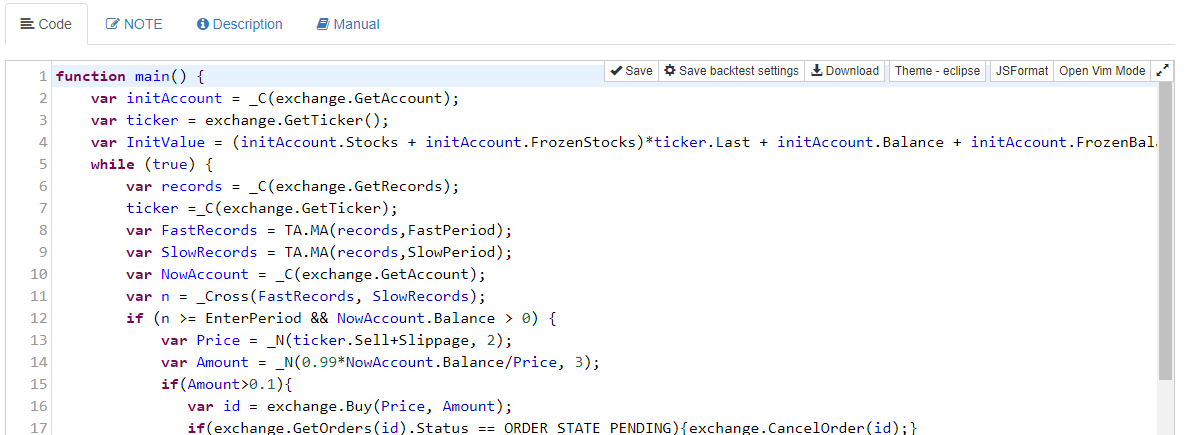
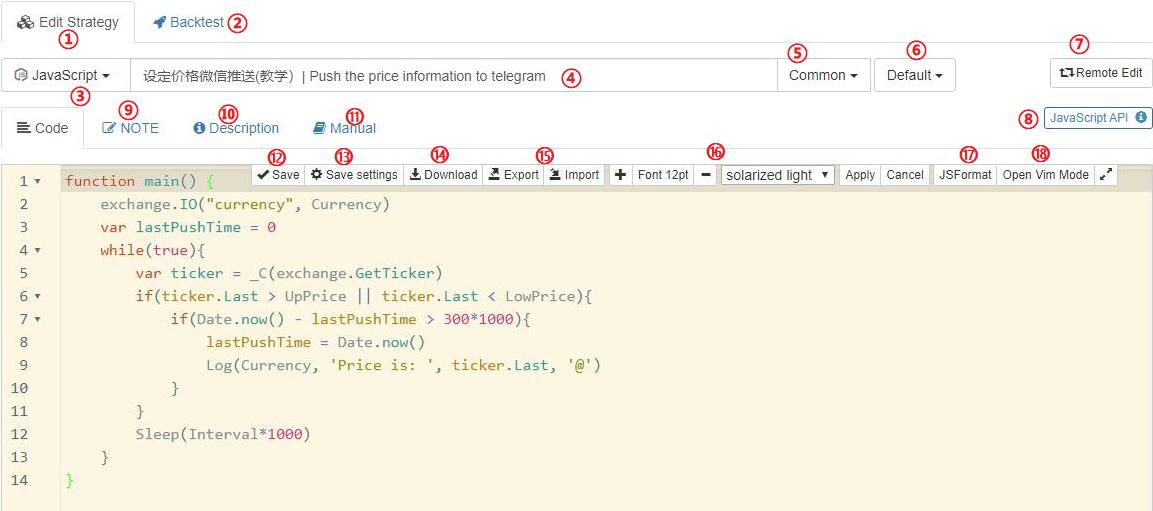
fix pics

diff --git a/doc/getting_started.rst b/doc/getting_started.rst
@@ -1,9 +1,8 @@
 1.1 Getting Started
 =======================
 
-What if I don’t have any program developing or financial skills? Can I still make quantitative trading or run a robot on this platform?
-
-Absolutely, our platform has a complete tutorial for beginners. Only need studying a couple of days, you are ready to code for your own robot.
+FMZ is an automated trading platform for cryptocurrency traders with support for many bitcoin/eth/altcoin exchange markets.
+We has a complete tutorial for beginners, such as https://www.fmz.com/bbs-topic/3649 . Only need studying a couple of days, you are ready to code for your own robot.
 
 **What can FMZ do for me?**
 
@@ -30,9 +29,7 @@ it will have no influence on your robot that is running.
 The Manager can run on variety of operating system. 
 Such as `Windows`, `Linux`, `Mac OS`, `Android`, `Raspbian`, etc.
 
-**What does "FMZ" mean?**
 
-"FMZ" doesn’t have a particular meanning in English.
 
 
 1.2	The Backtest System
@@ -72,11 +69,30 @@ After learning the most basic concepts, let’s start using FMZ to explore the q
 
 Register your FMZ account,Log in to https://www.fmz.com.
 
-.. image:: images/main_page.png
 
 First time to log in the website, it looks like this:
 
 .. image:: images/page_detail.png
+
+- 1.Your main control page
+- 2.Manage all your bots (start,stop,delete,open,etc)
+- 3.Manage all your strategies' code
+- 4.Deploy and manage your docker
+- 5.Add new exchanges
+- 6.Manual trading on the exchanges you added
+- 7.Pay your bill
+- 8.Ask any question here
+- 9.FMZ's simulated exchange
+- 10.Debug tool where you can run a block of code without start a bot.
+- 11.All kinds of message
+- 12.Strategy square where open-source and charging strategies are listed
+- 13.Live Robots where all live-running bots are listed.
+- 14.Forums where you can post a post to discuss any question related.
+- 15.Ask for someone to write code for you or provide this service for others.
+- 16.Products for exchanges and agencies.
+- 17.API documentation.
+- 18.Some useful tools, check for yourself.
+- 19.Your account information.
 
 1.3.2 Deploy the docker
 >>>>>>>>>>>>>>>>>>>>>>>>>>>>>>>>>>>
@@ -191,6 +207,25 @@ Now your can find this strategy on your dashboard strategies list. https://www.f
 Edit your code here, don't forget to save your code:
 
 .. image:: images/edit_code.png
+
+- 1.Edit your code
+- 2.Backtesting, we will cover this part on an intermediate tutorial
+- 3.The programer language of your code, JavaScript was used in this demo
+- 4.The title, "|" splits Chinese and English title, which one will be showed is decided by the language of FMZ website
+- 5.The type of your strategy, the default is common
+- 6.The category of your strategy. You can divide your strategies into different categories if you have too many
+- 7.Remote editing your code from your own IDE instead of our website
+- 8.A link to the API doc
+- 9.Notes of the strategy(only be seen by yourself). you can record the thoughts here.
+- 10.Descriptions of the strategy. Others will see the descriptions if you share or sell your strategy on Square.
+- 11.Manual of the strategy, can only be seen when someone bought your strategy.
+- 12.Save your code, or ``Ctrl+S`` on edit mode.
+- 13.Save the backtesting config on the code.
+- 14.Download the strategy file
+- 15.Export and import the strategy while keeping all the parameters
+- 16.Change the font size and edit the theme
+- 17.Format the code automatically
+- 18.Use VIM mode to edit.
 
 Change and add global variables here:
 
